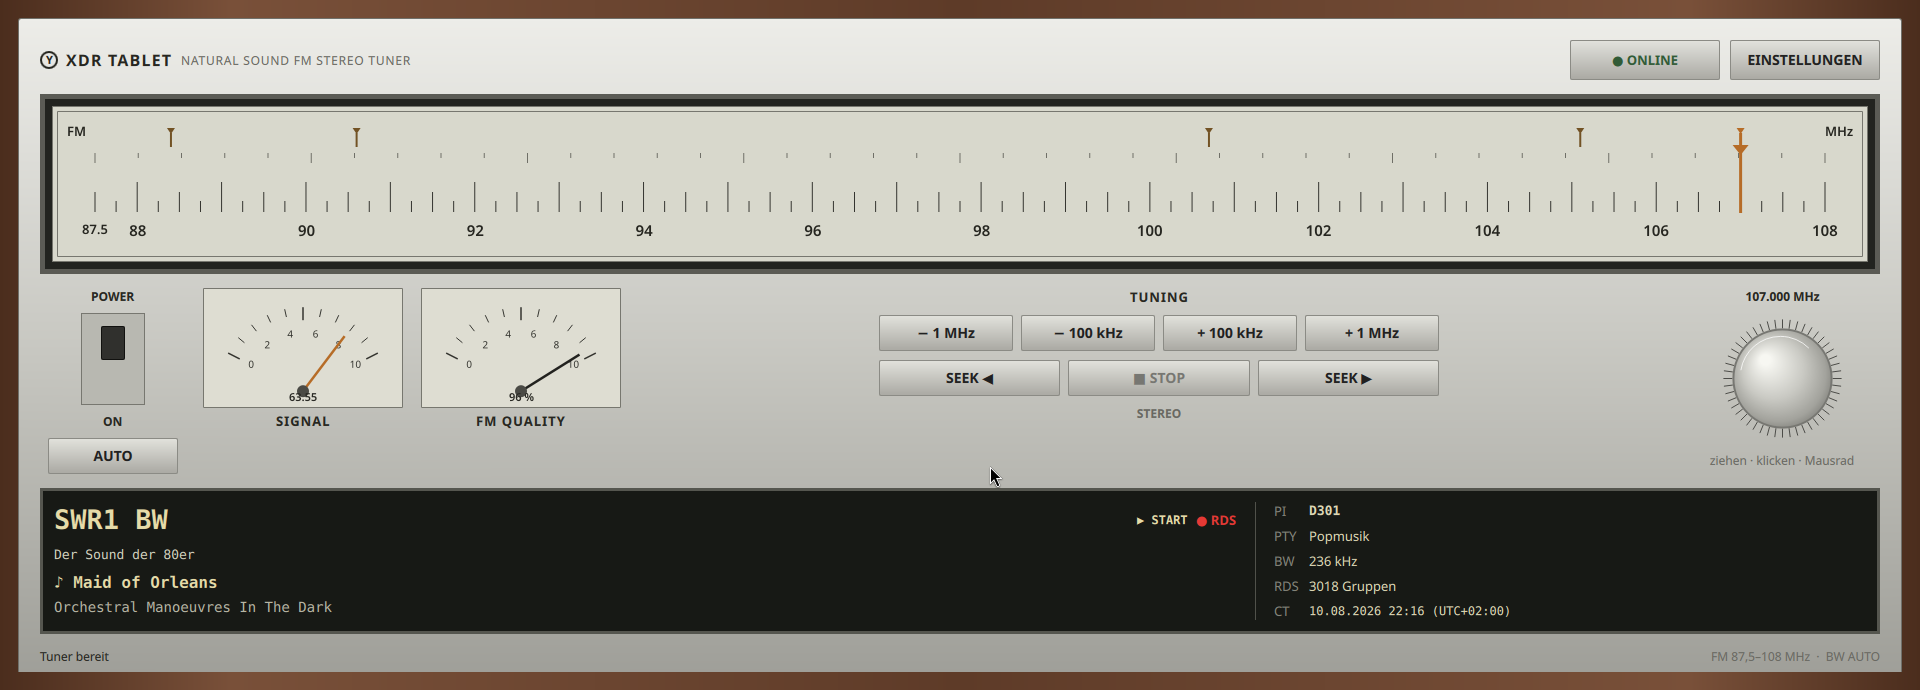
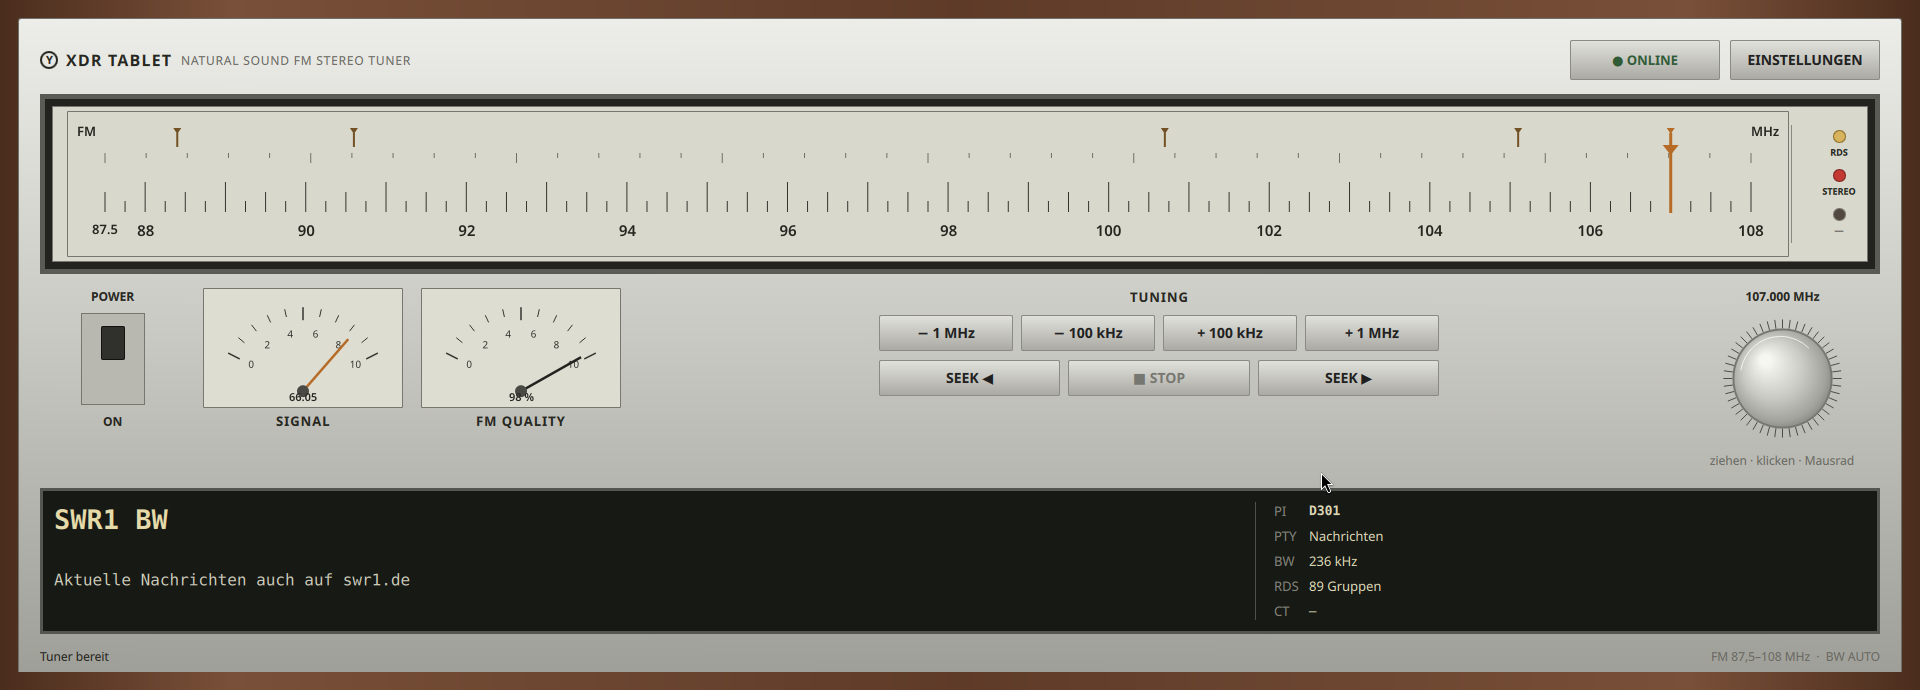
RDS Stereo LEDs und Tablet Ansicht aktualisiert

diff --git a/qml/Main.qml b/qml/Main.qml
@@ -748,32 +748,187 @@ visible: true
                     border.color: "#5b5b55"
                     border.width: false ? 3 : 5
 
+                    // Ein gemeinsamer Skalenrahmen. Die LED-Gruppe liegt
+                    // auf Desktop und Android-Tablet rechts innerhalb des Rahmens.
                     Rectangle {
                         anchors.fill: parent
                         anchors.margins: false ? 7 : 12
                         color: window.scaleGlass
                         border.color: "#77776f"
 
-                        FrequencyScale {
+                        RowLayout {
                             anchors.fill: parent
                             anchors.margins: false ? 2 : 5
-                            frequencyKhz: xdrClient.frequencyKhz
-                            minimumKhz: xdrClient.minimumFmFrequencyKhz
-                            maximumKhz: xdrClient.maximumFmFrequencyKhz
-                            scaleColor: window.scaleGlass
-                            textColor: window.ink
-                            pointerColor: window.amber
-                            presetFrequenciesKhz:
-                                window.stationPresetFrequencies
-                            presetPointerColor: "#725224"
-                            activePresetPointerColor: window.amber
+                            spacing: 2
 
-                            onPresetActivated:
-                                function(index, frequencyKhz) {
-                                    window.recallPreset(index)
+                            FrequencyScale {
+                                Layout.fillWidth: true
+                                Layout.fillHeight: true
+                                Layout.minimumWidth: 0
+                                Layout.leftMargin: 10
+                                frequencyKhz: xdrClient.frequencyKhz
+                                minimumKhz: xdrClient.minimumFmFrequencyKhz
+                                maximumKhz: xdrClient.maximumFmFrequencyKhz
+                                scaleColor: window.scaleGlass
+                                textColor: window.ink
+                                pointerColor: window.amber
+                                presetFrequenciesKhz:
+                                    window.stationPresetFrequencies
+                                presetPointerColor: "#725224"
+                                activePresetPointerColor: window.amber
+
+                                onPresetActivated:
+                                    function(index, frequencyKhz) {
+                                        window.recallPreset(index)
+                                    }
+                            }
+
+                            Item {
+                                id: scaleLedArea
+                                visible: true
+                                Layout.preferredWidth: 72
+                                Layout.minimumWidth: 72
+                                Layout.maximumWidth: 72
+                                Layout.fillHeight: true
+
+                                Rectangle {
+                                    anchors.left: parent.left
+                                    anchors.top: parent.top
+                                    anchors.bottom: parent.bottom
+                                    anchors.topMargin: 14
+                                    anchors.bottomMargin: 14
+                                    width: 1
+                                    color: "#8a8a82"
                                 }
-                        }
 
+                                ColumnLayout {
+                                    anchors.verticalCenter: parent.verticalCenter
+                                    anchors.right: parent.right
+                                    anchors.rightMargin: 0
+                                    width: 48
+                                    spacing: 10
+
+                                    ColumnLayout {
+                                        spacing: 3
+                                        Layout.fillWidth: true
+
+                                        Rectangle {
+                                            Layout.alignment: Qt.AlignHCenter
+                                            width: 13
+                                            height: 13
+                                            radius: 6.5
+                                            antialiasing: true
+                                            color:
+                                                (xdrClient.rtPlusItemRunningKnown
+                                                 && xdrClient.rtPlusItemRunning)
+                                                ? "#3a78d6"
+                                                : (xdrClient.rdsActive
+                                                   ? "#d7b45d"
+                                                   : "#4a4034")
+                                            border.width: 1
+                                            border.color:
+                                                (xdrClient.rtPlusItemRunningKnown
+                                                 && xdrClient.rtPlusItemRunning)
+                                                ? "#234c89"
+                                                : (xdrClient.rdsActive
+                                                   ? "#8f6f22"
+                                                   : "#77716b")
+
+                                            MouseArea {
+                                                id: rdsLedButton
+                                                anchors.fill: parent
+                                                cursorShape: Qt.PointingHandCursor
+                                                onClicked: {
+                                                    // Aktion für RDS-LED später ergänzen
+                                                }
+                                            }
+                                        }
+
+                                        Label {
+                                            text: "RDS"
+                                            color: window.ink
+                                            font.pixelSize: 9
+                                            font.bold: true
+                                            Layout.fillWidth: true
+                                            horizontalAlignment: Text.AlignHCenter
+                                        }
+                                    }
+
+                                    ColumnLayout {
+                                        spacing: 3
+                                        Layout.fillWidth: true
+
+                                        Rectangle {
+                                            Layout.alignment: Qt.AlignHCenter
+                                            width: 13
+                                            height: 13
+                                            radius: 6.5
+                                            antialiasing: true
+                                            color: xdrClient.stereo
+                                                   ? "#c43a32" : "#51483f"
+                                            border.width: 1
+                                            border.color: xdrClient.stereo
+                                                          ? "#7e241f" : "#77716b"
+
+                                            MouseArea {
+                                                id: stereoLedButton
+                                                anchors.fill: parent
+                                                enabled: xdrClient.ready && !xdrClient.seeking
+                                                cursorShape: enabled
+                                                             ? Qt.PointingHandCursor
+                                                             : Qt.ArrowCursor
+                                                onClicked:
+                                                    xdrClient.setForcedMono(
+                                                        !xdrClient.forcedMono)
+                                            }
+                                        }
+
+                                        Label {
+                                            text: xdrClient.forcedMono ? "MONO" : "STEREO"
+                                            color: window.ink
+                                            font.pixelSize: 9
+                                            font.bold: true
+                                            Layout.fillWidth: true
+                                            horizontalAlignment: Text.AlignHCenter
+                                        }
+                                    }
+
+                                    ColumnLayout {
+                                        spacing: 3
+                                        Layout.fillWidth: true
+
+                                        Rectangle {
+                                            Layout.alignment: Qt.AlignHCenter
+                                            width: 13
+                                            height: 13
+                                            radius: 6.5
+                                            antialiasing: true
+                                            color: "#51483f"
+                                            border.width: 1
+                                            border.color: "#77716b"
+
+                                            MouseArea {
+                                                id: thirdLedButton
+                                                anchors.fill: parent
+                                                cursorShape: Qt.PointingHandCursor
+                                                onClicked: {
+                                                    // Aktion für dritte LED später ergänzen
+                                                }
+                                            }
+                                        }
+
+                                        Label {
+                                            text: "—"
+                                            color: window.mutedInk
+                                            font.pixelSize: 9
+                                            font.bold: true
+                                            Layout.fillWidth: true
+                                            horizontalAlignment: Text.AlignHCenter
+                                        }
+                                    }
+                                }
+                            }
+                        }
                     }
                 }
 
@@ -852,8 +1007,8 @@ visible: true
                             Layout.alignment: Qt.AlignHCenter
                             implicitWidth: false ? 118 : 130
                             text: xdrClient.forcedMono ? "MONO" : "AUTO"
-                            enabled: xdrClient.ready && !xdrClient.seeking
-                            onClicked: xdrClient.setForcedMono(!xdrClient.forcedMono)
+                            opacity: 0
+                            enabled: false
                         }
                     }
 
@@ -1020,6 +1175,8 @@ visible: true
                         }
 
                         Label {
+                            // Statuszeile bleibt als unsichtbarer Layout-Platzhalter
+                            // erhalten, damit TUNING und Drehknopf nicht verrutschen.
                             Layout.fillWidth: true
                             horizontalAlignment: Text.AlignHCenter
                             text: xdrClient.seeking
@@ -1031,6 +1188,7 @@ visible: true
                             font.pixelSize: window.smallFontSize
                             font.bold: true
                             elide: Text.ElideRight
+                            opacity: 0
                         }
                     }
 
@@ -1131,7 +1289,10 @@ visible: true
                                 }
 
                                 RowLayout {
+                                    // START/STOP und RDS-Status unten werden nicht mehr
+                                    // angezeigt; der Platz bleibt für unverändertes Layout.
                                     spacing: 8
+                                    opacity: 0
 
                                     Label {
                                         visible:
